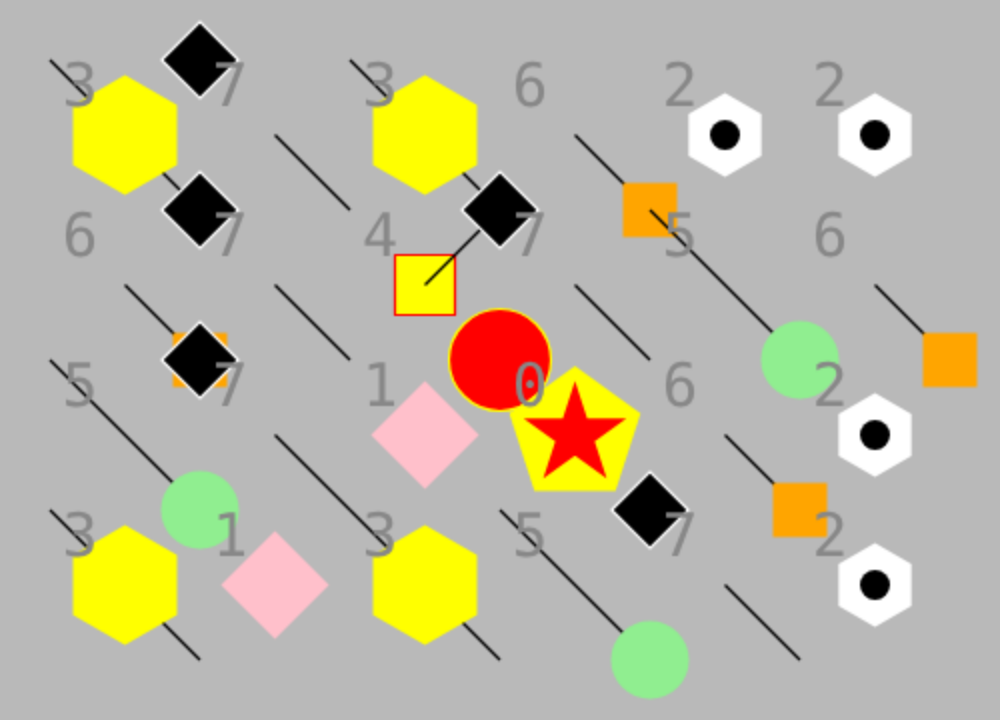
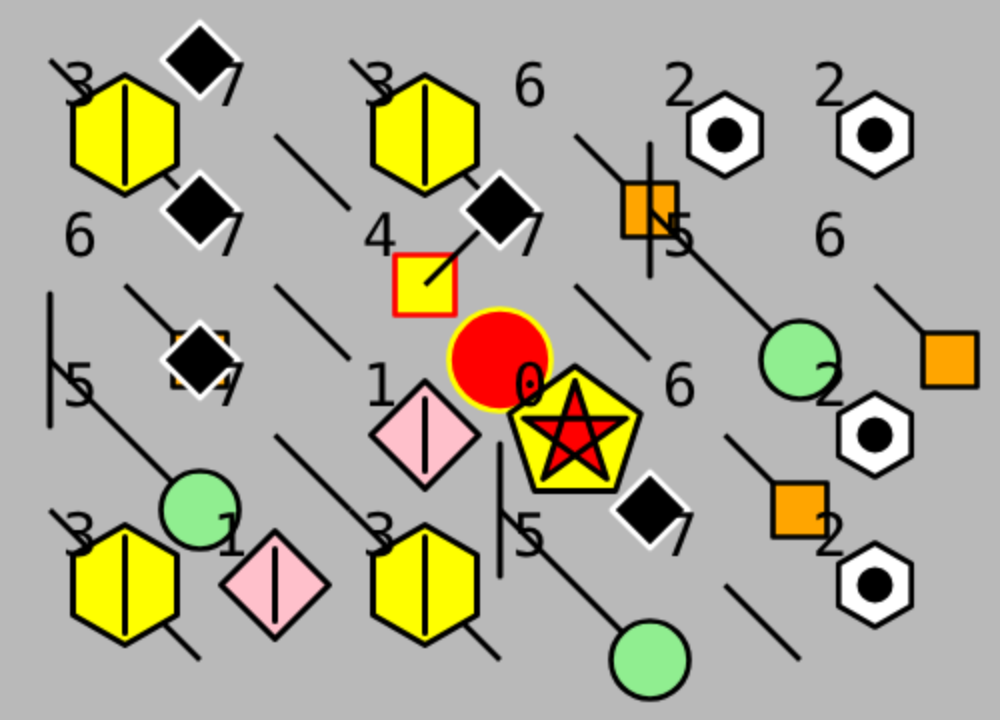
Legacy previews: default black outline ; add full-page view ; repo cleanup
- Re-render the legacy previews with the default-outline rule (filled shapes stroked
  black when the .pattern declares no drawColor, matching Silverquote). Shapes drawn
  via the quad/text paths are unaffected, so only some previews change.
- Add screenshots/legacy/Default_fullpage.png — full-page view (44x25 grid, #b9b9b9)
  matching the Silverquote Default.pattern display.
- schemas/LEGACY_PATTERNS_REPORT.md: document the default-outline rule (to be ported
  into the live layer-pattern at §15.4).
- Cleanup: remove a stray patch file accidentally committed in d8fcac4, and add
  *.patch to .gitignore so downloaded patches are never committed again.

diff --git a/docs/reboot-kit/LD_FileTree.md b/docs/reboot-kit/LD_FileTree.md
@@ -1,6 +1,6 @@
 # Layout Designer — Repository File Tree
 
-*Generated from `git ls-files` (616 tracked files). Directory-level map; `node_modules` / build / cache folders are collapsed to a count. ★ = live authority file (core contract or architecture spec — read it from HEAD, never recite from memory). Regenerate with `cli_tools/ld_generate_filetree.py` after structural changes, then reload it into Project Knowledge.*
+*Generated from `git ls-files` (617 tracked files). Directory-level map; `node_modules` / build / cache folders are collapsed to a count. ★ = live authority file (core contract or architecture spec — read it from HEAD, never recite from memory). Regenerate with `cli_tools/ld_generate_filetree.py` after structural changes, then reload it into Project Knowledge.*
 
 - **assets/**
   - **legacy/**
@@ -59,6 +59,7 @@
       - Nuts.pattern
       - PI.pattern
       - Polygram.pattern
+      - Screenshot_Default.png
     - **tilesets/**
       - **496_RPG_icons/**
         - A_Armor04.png
@@ -613,6 +614,7 @@
   - **legacy/**
     - arcs.png
     - default.png
+    - Default_fullpage.png
     - iching.png
     - moire.png
     - polygram.png
@@ -642,7 +644,6 @@
     - app.js
 - .gitattributes
 - .gitignore
-- 0003-Add-LD_Workflow.md-development-workflow-to-the-reboo.patch
 - _00_open_cmd_window.bat
 - _run_LayoutDesigner_W.bat
 - _run_LayoutDesigner_X.sh

diff --git a/schemas/LEGACY_PATTERNS_REPORT.md b/schemas/LEGACY_PATTERNS_REPORT.md
@@ -55,6 +55,18 @@ Swords, Icons, Icons 32x32) reference external **tilesets** (`assets/legacy/tile
 `assets/legacy/icons/`) via an `icon` primitive — rendering them needs image loading,
 out of scope for this pass. They still **validate** under the grammar.
 
+
+## Rendering fidelity — default outline
+
+Filled shapes are stroked **black by default** even when the `.pattern` part declares no
+`drawColor` (Silverquote behaviour; `"none"` still suppresses the outline). Without this,
+circles/diamonds render as flat discs with no contour. The previews here include it.
+`Default_fullpage.png` is the full-page view (44×25 grid, `#b9b9b9` background) matching
+the Silverquote Default.pattern display.
+
+> When the live engine renders `.lygrid` for real (§15.4), port this same default-outline
+> rule into the `layer-pattern` primitive drawing.
+
 ## Next step (optional)
 
 Fold this grammar into `schemas/` as the `.lygrid` validator for the real §15.4
